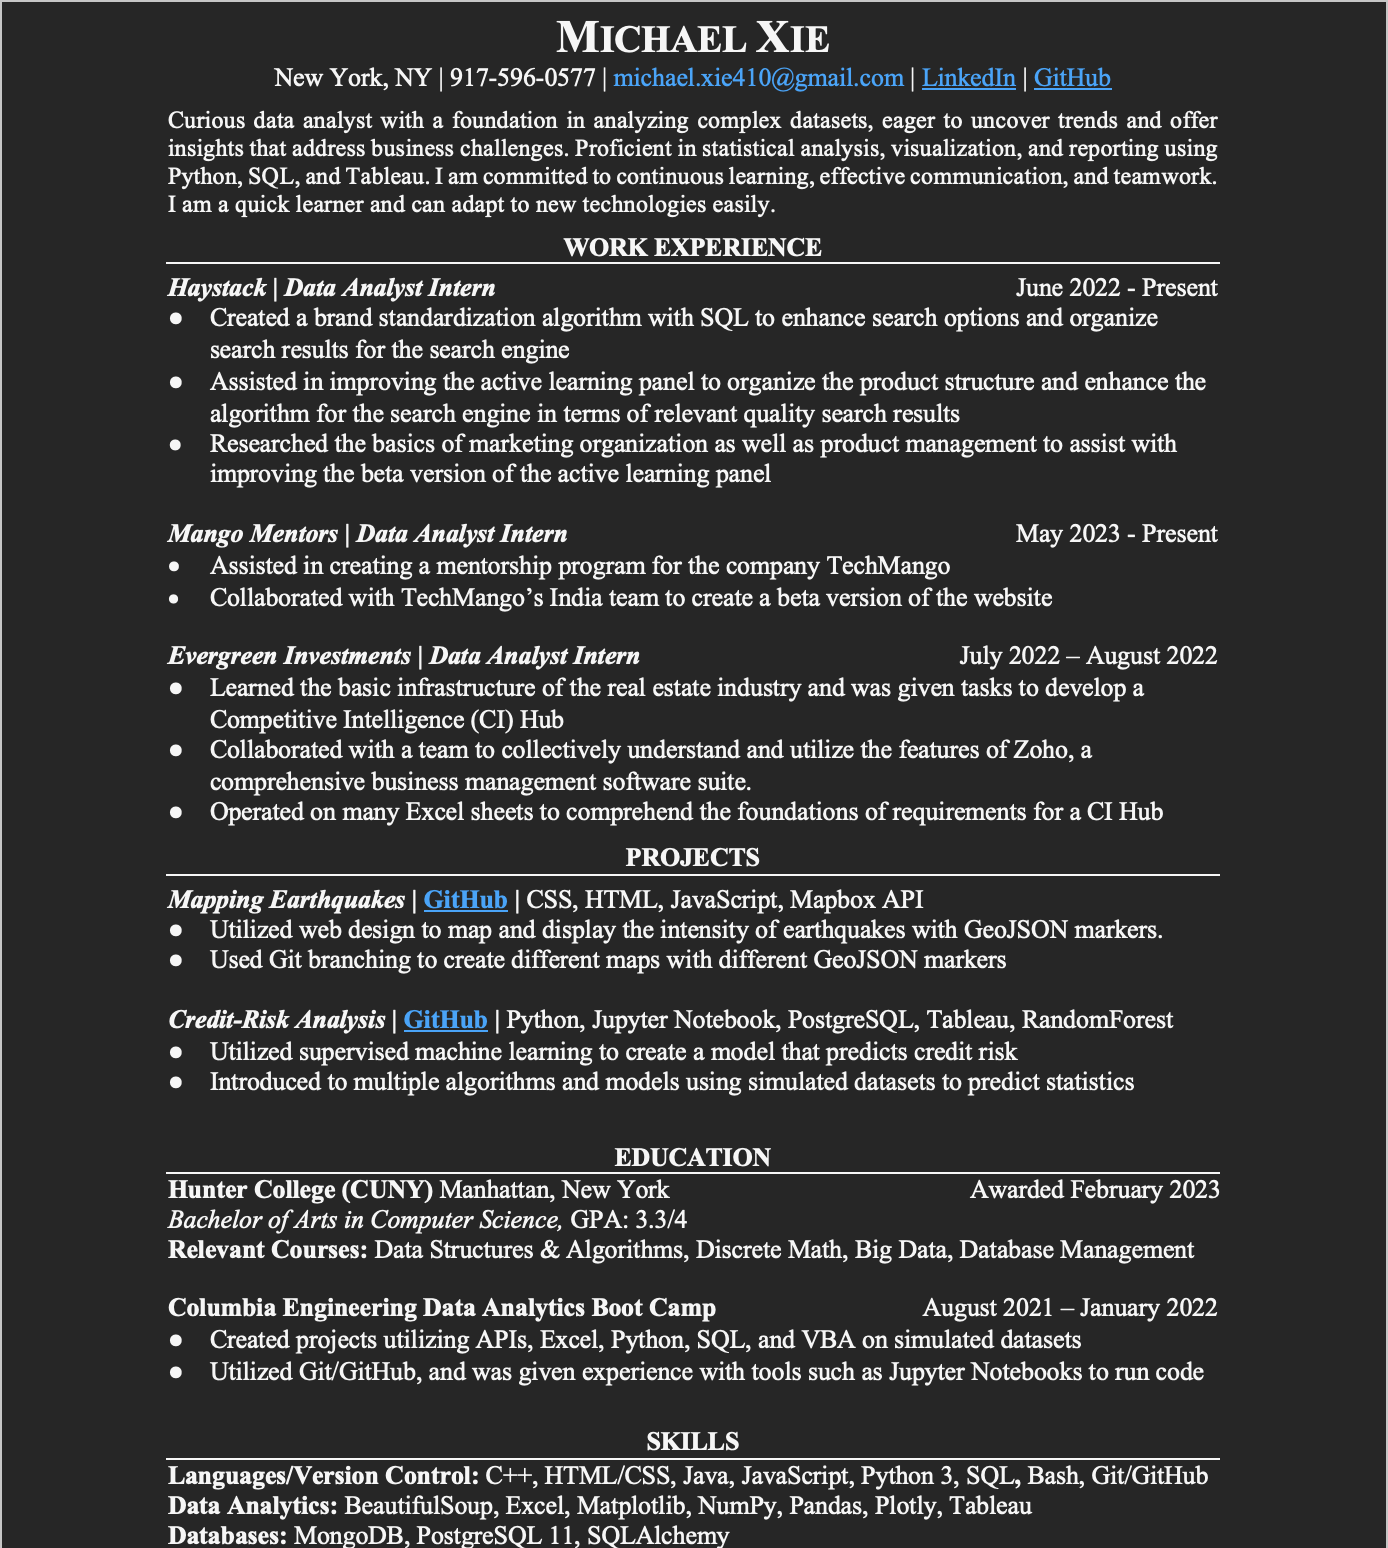
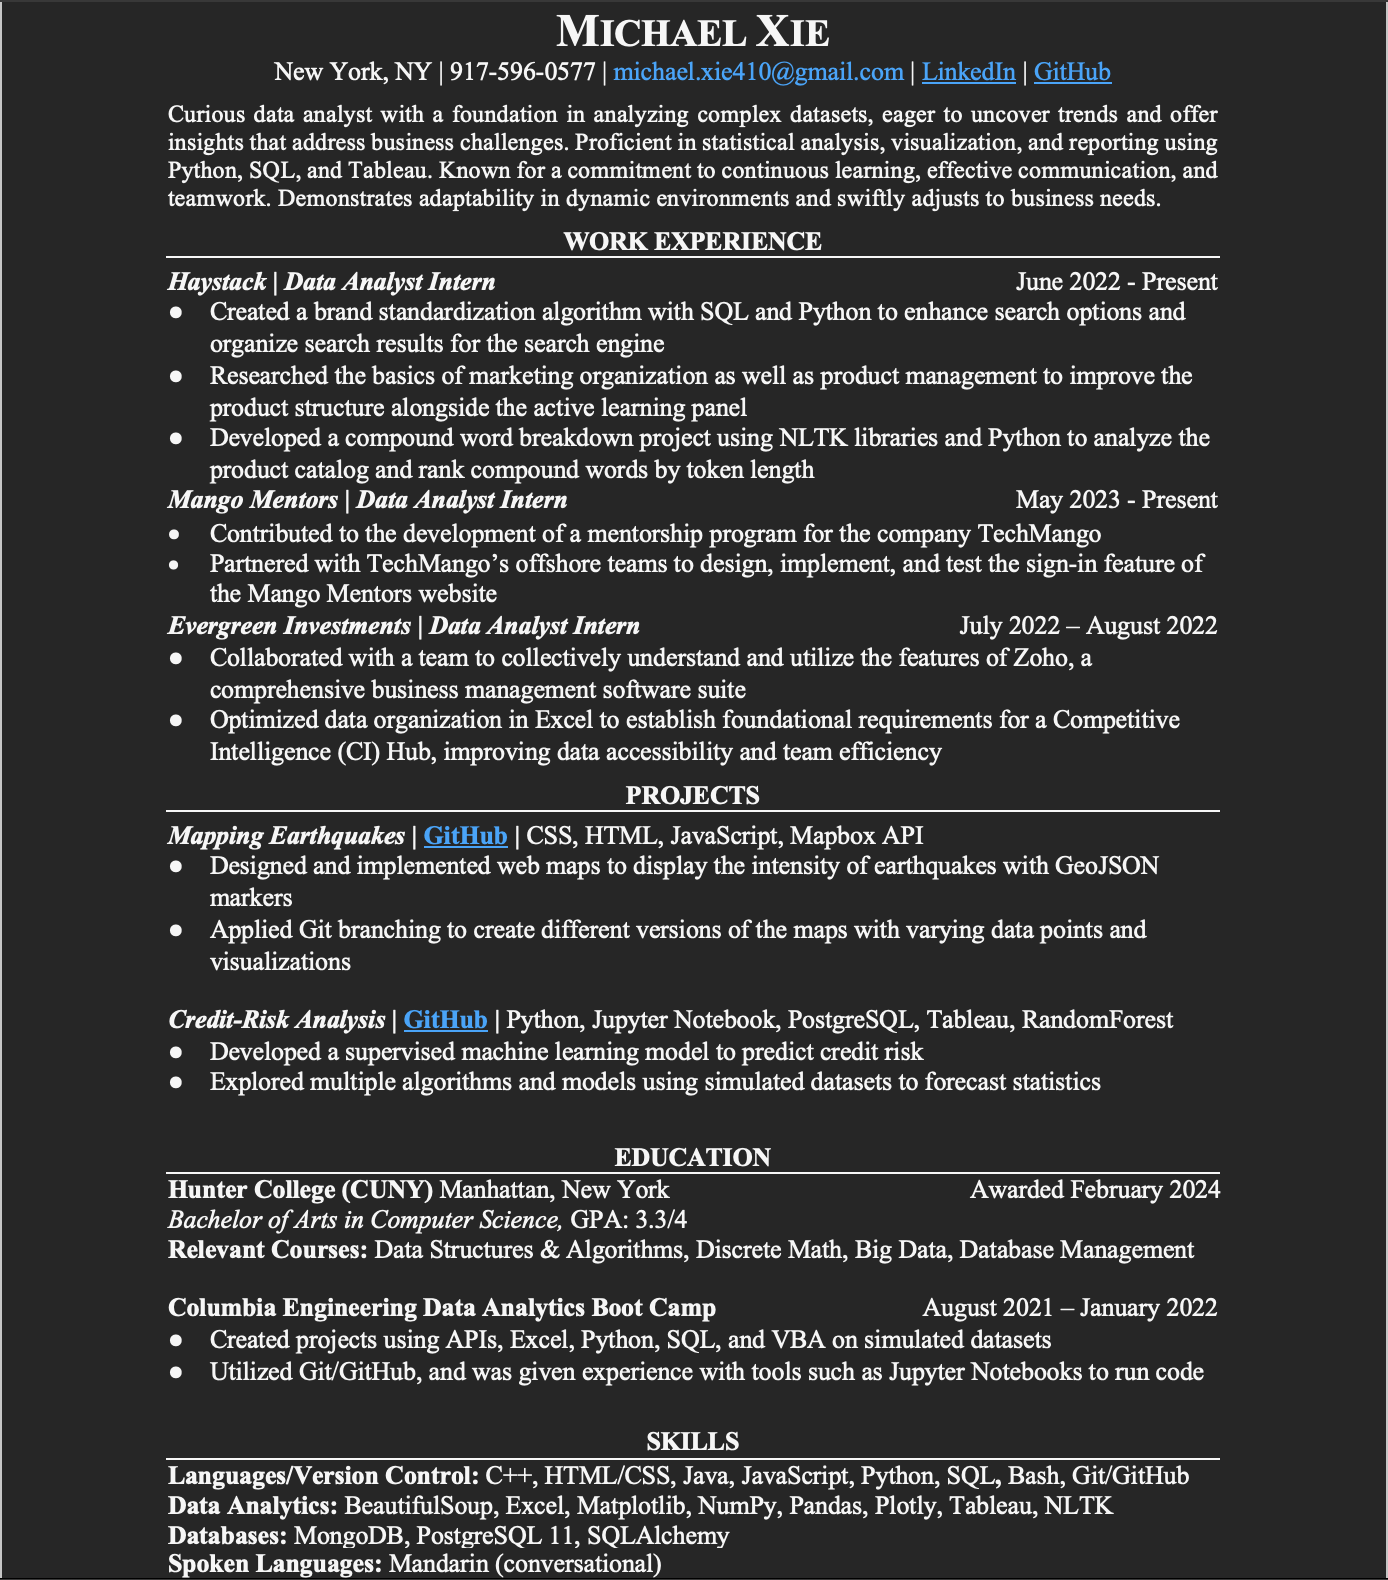
Added updated resume

Changed region(s): [[0.0929, 0.0, 0.8984, 1.0]]

diff --git a/index.html b/index.html
@@ -21,7 +21,7 @@
         <div id="slideshow-container">
             <ul>
                 <li class="active">
-                    <a href="https://drive.google.com/file/d/15XGwROqVpbz_55Pdk6mMLORAcd1FGOjI/view?usp=sharing">
+                    <a href="https://drive.google.com/file/d/1oQpbNlM3vA9j7Qs7y1UnqtNFyCmvxHqZ/view?usp=sharing">
                         <img src="images/resume_preview.png" alt="Resume Preview" class="small-image">
                         <div class="image-description">Resume</div>
                     </a>
